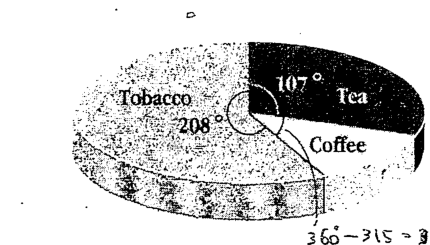
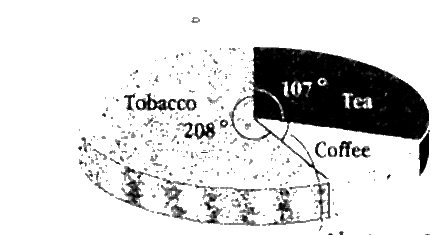
Render question figures and clean the scan crops
The reader opened on a real paper for the first time and exposed two gaps.

- Figures never rendered. The JSON hangs a diagram off its question as
  
igure, but only standalone 
igure blocks were drawn, so every question
  referenced a diagram that was not on screen. Questions now render an embedded
  figure under the stem, with a labelled placeholder when the asset is missing.
- assets/samples/figures/ was not declared in pubspec, so even a standalone
  figure block would have fallen back to a placeholder. Bundling added ~1 MB to
  the APK and the diagrams now ship with the paper.
- The crops were raw photocopy: speckled, and carrying the learner's handwritten
  workings. A grayscale autocontrast + median pass removes most of it and the
  pie chart is recropped to drop the annotation. They are legible but still
  obviously scans.

37 tests pass; analyzer clean.

diff --git a/phanda_app/lib/features/reader/block_document_view.dart b/phanda_app/lib/features/reader/block_document_view.dart
@@ -256,6 +256,16 @@ class _QuestionBlock extends StatelessWidget {
             block.text,
             style: theme.textTheme.bodyLarge?.copyWith(height: 1.5),
           ),
+          // A question and its diagram are one unit: the figure sits under the
+          // stem instead of being a separate block the author must keep in
+          // order.
+          if (block.raw['figure'] is Map)
+            Padding(
+              padding: const EdgeInsets.only(top: 10),
+              child: _EmbeddedFigure(
+                data: (block.raw['figure'] as Map).cast<String, Object?>(),
+              ),
+            ),
           for (final part in block.parts) ...[
             const SizedBox(height: 10),
             Row(
@@ -326,6 +336,54 @@ class _AnswerBlock extends StatelessWidget {
             ),
         ],
       ),
+    );
+  }
+}
+
+/// The diagram belonging to a question. Missing assets degrade to a labelled
+/// placeholder rather than an empty space, so a half-imported paper still reads.
+class _EmbeddedFigure extends StatelessWidget {
+  const _EmbeddedFigure({required this.data});
+
+  final Map<String, Object?> data;
+
+  @override
+  Widget build(BuildContext context) {
+    final theme = Theme.of(context);
+    final asset = data['asset'] as String?;
+    final caption = (data['alt'] ?? data['caption']) as String?;
+
+    if (asset == null || asset.isEmpty) {
+      return _FigurePlaceholder(label: caption ?? 'Figure not included');
+    }
+
+    return Column(
+      crossAxisAlignment: CrossAxisAlignment.start,
+      children: [
+        ClipRRect(
+          borderRadius: BorderRadius.circular(10),
+          child: ColoredBox(
+            color: Colors.white,
+            child: Image.asset(
+              asset,
+              width: double.infinity,
+              fit: BoxFit.fitWidth,
+              errorBuilder: (_, _, _) =>
+                  _FigurePlaceholder(label: caption ?? 'Figure not available'),
+            ),
+          ),
+        ),
+        if (caption != null)
+          Padding(
+            padding: const EdgeInsets.only(top: 6),
+            child: Text(
+              caption,
+              style: theme.textTheme.bodySmall?.copyWith(
+                color: theme.colorScheme.onSurfaceVariant,
+              ),
+            ),
+          ),
+      ],
     );
   }
 }
